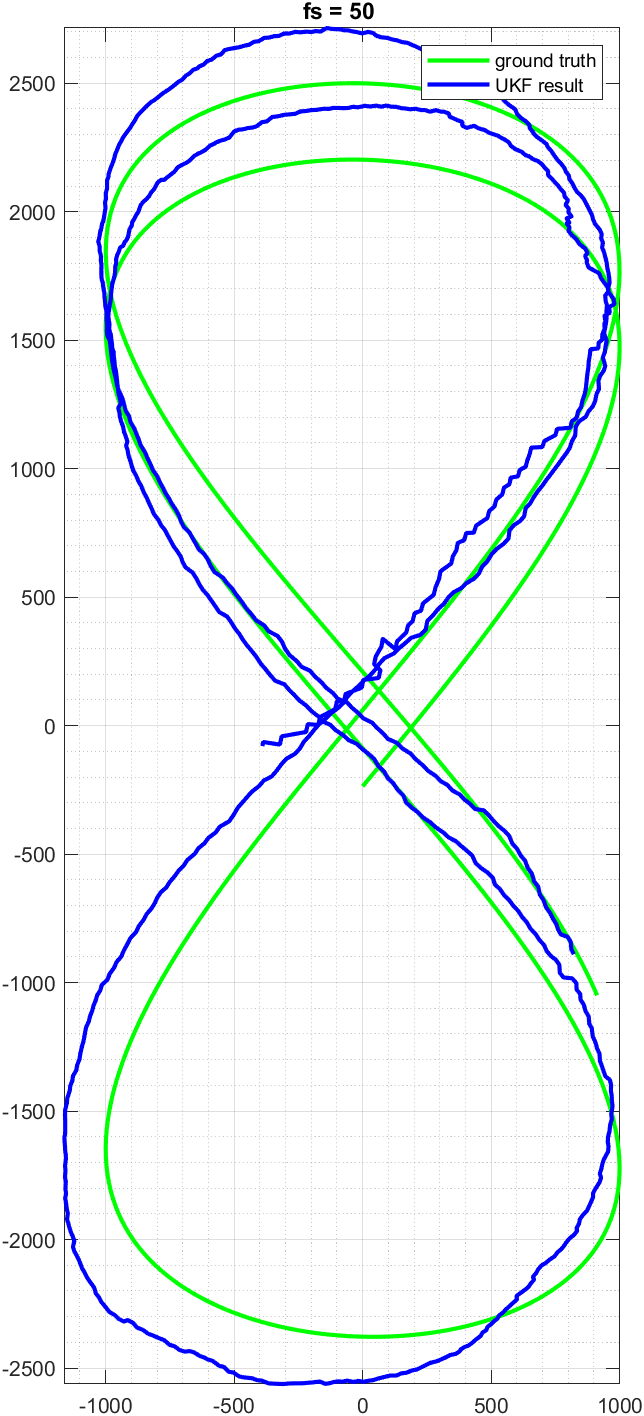
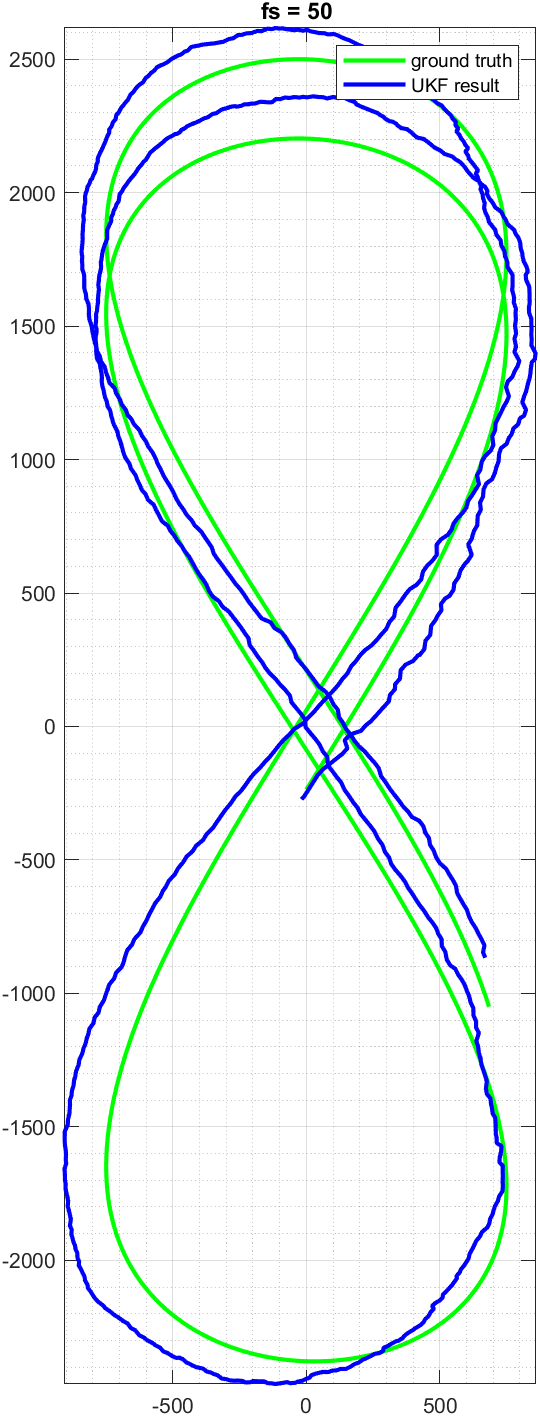
Interpolation of uwb is working

diff --git a/kalman/UKF_2d_nonlinear_data/UKF_main_runall.m b/kalman/UKF_2d_nonlinear_data/UKF_main_runall.m
@@ -1,4 +1,3 @@
-function UKF_main_runall()
 close all; clc;
 [ap.thisFile, nm.CurrFile] = fileparts(mfilename('fullpath'));
 cd(ap.thisFile)
@@ -16,7 +15,30 @@ files = makeFullPathFromDirOutput(dir('*.mat'));
 cd(ap.thisFile)
 
 for nF = 1:length(files)
-    [~,errors(nF,:)] = UKF_main_nonlinear(files(nF).fullpath);
+    [errors(nF,:),~] = UKF_main_nonlinear(files(nF).fullpath);
+    errorsout(nF,:) = [nF errors(nF,:)];
 end
-errors
+errorsout
+
+input.data = errorsout;
+input.tablePositioning = 'h';
+input.tableColLabels = {'','UWB RMSE [mm]','UKF RMSE [mm]','UKF RTS RMSE [mm]','\% UKF','\% UKF RTS'};
+input.dataNanString = '-';
+input.tableColumnAlignment = 'c';
+input.booktabs = 1;
+input.dataFormat = {'%.0f',1,'%.1f',length(input.tableColLabels)-1};
+input.tableCaption = 'Results expressed in RMSE are based on ground truth reference. The error reduction is indicated by \%.';
+input.tableLabel = 'tab:results:sensorfusion';
+latex = latexTable(input);
+
+%% Write to file
+ap.outdir = findSubFolderPath([],'UWB','THESIS');
+ap.outdir = findSubFolderPath(ap.outdir,'THESIS','results');
+filename = fullfile(ap.outdir,'ukfresults.tex');
+fid=fopen(filename,'w');
+[nrows,~] = size(latex);
+for row = 1:nrows
+    fprintf(fid,'%s\n',latex{row,:});
 end
+fclose(fid);
+fclose('all');

diff --git a/kalman/UKF_2d_nonlinear_data/UKF_Q.m b/kalman/UKF_2d_nonlinear_data/UKF_Q.m
@@ -4,7 +4,7 @@ if not(exist('variance','var'))
     variance = 1;
 end
 
-posvar = 2;
+posvar = 0.5;
 Q = [posvar*dt  0.00    0  	  0       0       0.00       0.000;
      0          posvar*dt 0 	  0       0       0.00       0.000;
      0          0         dt^2	  0       0       0           0;
@@ -14,5 +14,21 @@ Q = [posvar*dt  0.00    0  	  0       0       0.00       0.000;
      0          0         0       0       0       0           1]*variance;
 
 Q = Q+triu(Q,-1).'; % make it symmetric
+
+% % %% Calculate system noise
+% % if not(exist('variance','var'))
+% %     variance = 1;
+% % end
+% % 
+% % posvar = 2;
+% % Q = [posvar*dt  0.00    0  	  0       0       0.00       0.000;
+% %      0          posvar*dt 0 	  0       0       0.00       0.000;
+% %      0          0         dt^2	  0       0       0           0;
+% %      0          0         0       dt^2    0       0           0;
+% %      0          0         0       0       0.1     0           0;
+% %      0          0         0       0       0       0.1*dt^2    0;
+% %      0          0         0       0       0       0           1]*variance;
+% % 
+% % Q = Q+triu(Q,-1).'; % make it symmetric
 end
 

diff --git a/kalman/UKF_2d_nonlinear_data/UKF_REAL_DATA.m b/kalman/UKF_2d_nonlinear_data/UKF_REAL_DATA.m
@@ -5,7 +5,7 @@ apsynced = findSubFolderPath(apfullpath,'MATLAB','synced');
 cd(apsynced);
 
 if not(exist('ap','var')) || isempty(ap)
-    load('W_RANG_(~)_RS_00.mat');
+    load('W_RANG_(~)_RS_02.mat');
 else
     load(ap);
 end
@@ -98,10 +98,16 @@ function [uwb, opti] = makeSameLength(uwb,opti)
 maxTimeUwb = uwb.time(end);
 maxTimeOpti = opti.time(end);
 maxTimeRound = round(min(maxTimeUwb,maxTimeOpti));
-vecTime = 0:1/10:max(maxTimeRound);
+dt = 1/10; 
+dtuwb = mean(diff(uwb.time));
+if dt > dtuwb
+    dt = dtuwb;
+end
 
-uwb.x = interp1(uwb.time,uwb.coord.x,vecTime)';
-uwb.y = interp1(uwb.time,uwb.coord.y,vecTime)';
+vecTime = 0:dt:max(maxTimeRound);
+
+uwb.x = fillmissing(interp1(uwb.time,uwb.coord.x,vecTime)','movmedian',round(1/dt));
+uwb.y = fillmissing(interp1(uwb.time,uwb.coord.y,vecTime)','movmedian',round(1/dt));
 uwb.time = vecTime;
 
 opti.xDownSampled = interp1(opti.time,opti.coord.x,vecTime)';

diff --git a/kalman/UKF_2d_nonlinear_data/UKF_main_nonlinear.m b/kalman/UKF_2d_nonlinear_data/UKF_main_nonlinear.m
@@ -1,8 +1,8 @@
-function [UKF_RTS_x,errors] = UKF_main_nonlinear(ap)
+function [errors,UKF_RTS_x] = UKF_main_nonlinear(ap)
 
 if not(exist('ap','var'))
     ap = [];
-    blVisiblePlots = 1;
+    blVisiblePlots = 0;
     close all;
 else
     blVisiblePlots = 0;
@@ -35,6 +35,7 @@ for i = 1:length(tVelocity)-1
     
     UKF_x(i,:) = x;
     UKF_P(i).M = P;
+    
     if cnt > length(tPosition)
         break
     end
@@ -46,6 +47,6 @@ name = replace(mfilename,'_','\_');
 RMSE1 = UKF_plot_results_data(ts,clean,position,UKF_x,velocity,[name],blVisiblePlots);
 [RMSE2, RMSERAW] = UKF_plot_results_data(ts,clean,position,UKF_RTS_x,velocity,[name ' RTS'],blVisiblePlots);
 distFig; 
-errors = [RMSE1 RMSE2 RMSERAW ((RMSE2-RMSERAW)/RMSERAW)];
+errors = round([RMSERAW RMSE1 RMSE2 ((RMSE1-RMSERAW)/RMSERAW)*100 ((RMSE2-RMSERAW)/RMSERAW)*100],1);
 % UKF_plot_residuals(position,residualsV,UKF_RTS_x)
 end

diff --git a/kalman/UKF_2d_nonlinear_data/UKF_RTS_smooth.m b/kalman/UKF_2d_nonlinear_data/UKF_RTS_smooth.m
@@ -1,13 +1,12 @@
-function [xs, Ps] = UKF_RTS_smooth(x_UKF, Ps, Q, dt, weights)
+function [x_UKF, Ps] = UKF_RTS_smooth(x_UKF, Ps, Q, dt, weights)
 
-xs = x_UKF;
-for k = length(xs)-1:-1:1
-    sigmaPoints = MerweScaledSigmaPoints(xs(k,:),Ps(k).M,weights);
+for k = length(x_UKF)-1:-1:1
+    sigmaPoints = MerweScaledSigmaPoints(x_UKF(k,:),Ps(k).M,weights);
     sigmas_F = UKF_f(sigmaPoints,dt);
     [xb,Pb] = UnscentedTransform(sigmas_F,weights,Q);
-    Pxb = UKF_cross_variance(xb,xs(k,:),weights,sigmas_F,sigmaPoints);
+    Pxb = UKF_cross_variance(xb,x_UKF(k,:),weights,sigmas_F,sigmaPoints);
     K = Pxb * inv(Pb);
-    xs(k,:) = xs(k,:) + (K * (xs(k+1,:)-xb)')';
+    x_UKF(k,:) = x_UKF(k,:) + (K * (x_UKF(k+1,:)-xb)')';
     Ps(k).M = Ps(k).M + ((K * (Ps(k+1).M - Pb)) * K');
 end
 

diff --git a/kalman/UKF_2d_nonlinear/UKF_main_nonlinear.m b/kalman/UKF_2d_nonlinear/UKF_main_nonlinear.m
@@ -36,7 +36,7 @@ UKF_RTS_x = UKF_RTS_smooth(UKF_x, UKF_P, UKF_Q(ts.dt2),ts.dt2,weights);
 
 blVisiblePlots = 1; close all; name = replace(mfilename,'_','\_');
 RMSE1 = UKF_plot_results(ts,clean,position,UKF_x,velocity,[name],blVisiblePlots);
-UKF_plot_results_for_thesis(ts,clean,position,UKF_x,velocity,['fs = ' num2str(ts.fs)]);
+UKF_plot_results_for_thesis(ts,clean,position,UKF_x,velocity,['UWB update rate = ' num2str(ts.fs) ' Hz']);
 [RMSE2, RMSE_RAW] = UKF_plot_results(ts,clean,position,UKF_RTS_x,velocity,[name ' RTS'],blVisiblePlots);
 distFig; errors = [RMSE1 RMSE2 RMSE_RAW]
 % UKF_plot_residuals(position,residualsV,UKF_RTS_x)

diff --git a/kalman/UKF_2d_nonlinear/UKF_create_simulation_data.m b/kalman/UKF_2d_nonlinear/UKF_create_simulation_data.m
@@ -76,10 +76,10 @@ end
 
 function [position,velocity,acceleration,clean,tspecs] = generateAll()
 te = 10; %sec
-courtwidth = 2000; %mm
+courtwidth = 1500; %mm
 courtheigth = 5000; %mm
 
-fs = 8;  % position
+fs = 50;  % position
 fs2 = 100; % velocity
 
 [~,t,~] = createTemporalSpecs(fs,te);
@@ -93,7 +93,7 @@ clean.position.y = y;
 % [dt,t,n] = addJitter(fs,te);
 % [dt2,t2,n2] = addJitter(fs2,te);
 
-position.var.pos = 20000;
+position.var.pos = 10000;
 position.x = generate_signal(x, position.var.pos*2);
 position.y = generate_signal(y, position.var.pos*2);
 

diff --git a/solvers/helpercode/getErrorDistances.m b/solvers/helpercode/getErrorDistances.m
@@ -1,6 +1,6 @@
-function error = getErrorDistances(AnchorPos,CleanTagPos,CalculatedTagPos)
+function [error,differenceVector] = getErrorDistances(AnchorPos,CleanTagPos,CalculatedTagPos)
 nA = size(AnchorPos,1);
 nT = length(CleanTagPos);
-difference = dis(AnchorPos,CleanTagPos)-dis(AnchorPos,CalculatedTagPos);
-error = sqrt((sum(difference(:).^2)/(nA*nT)));
+differenceVector = dis(AnchorPos,CleanTagPos)-dis(AnchorPos,CalculatedTagPos);
+error = sqrt((sum(differenceVector(:).^2)/(nA*nT)));
 end
